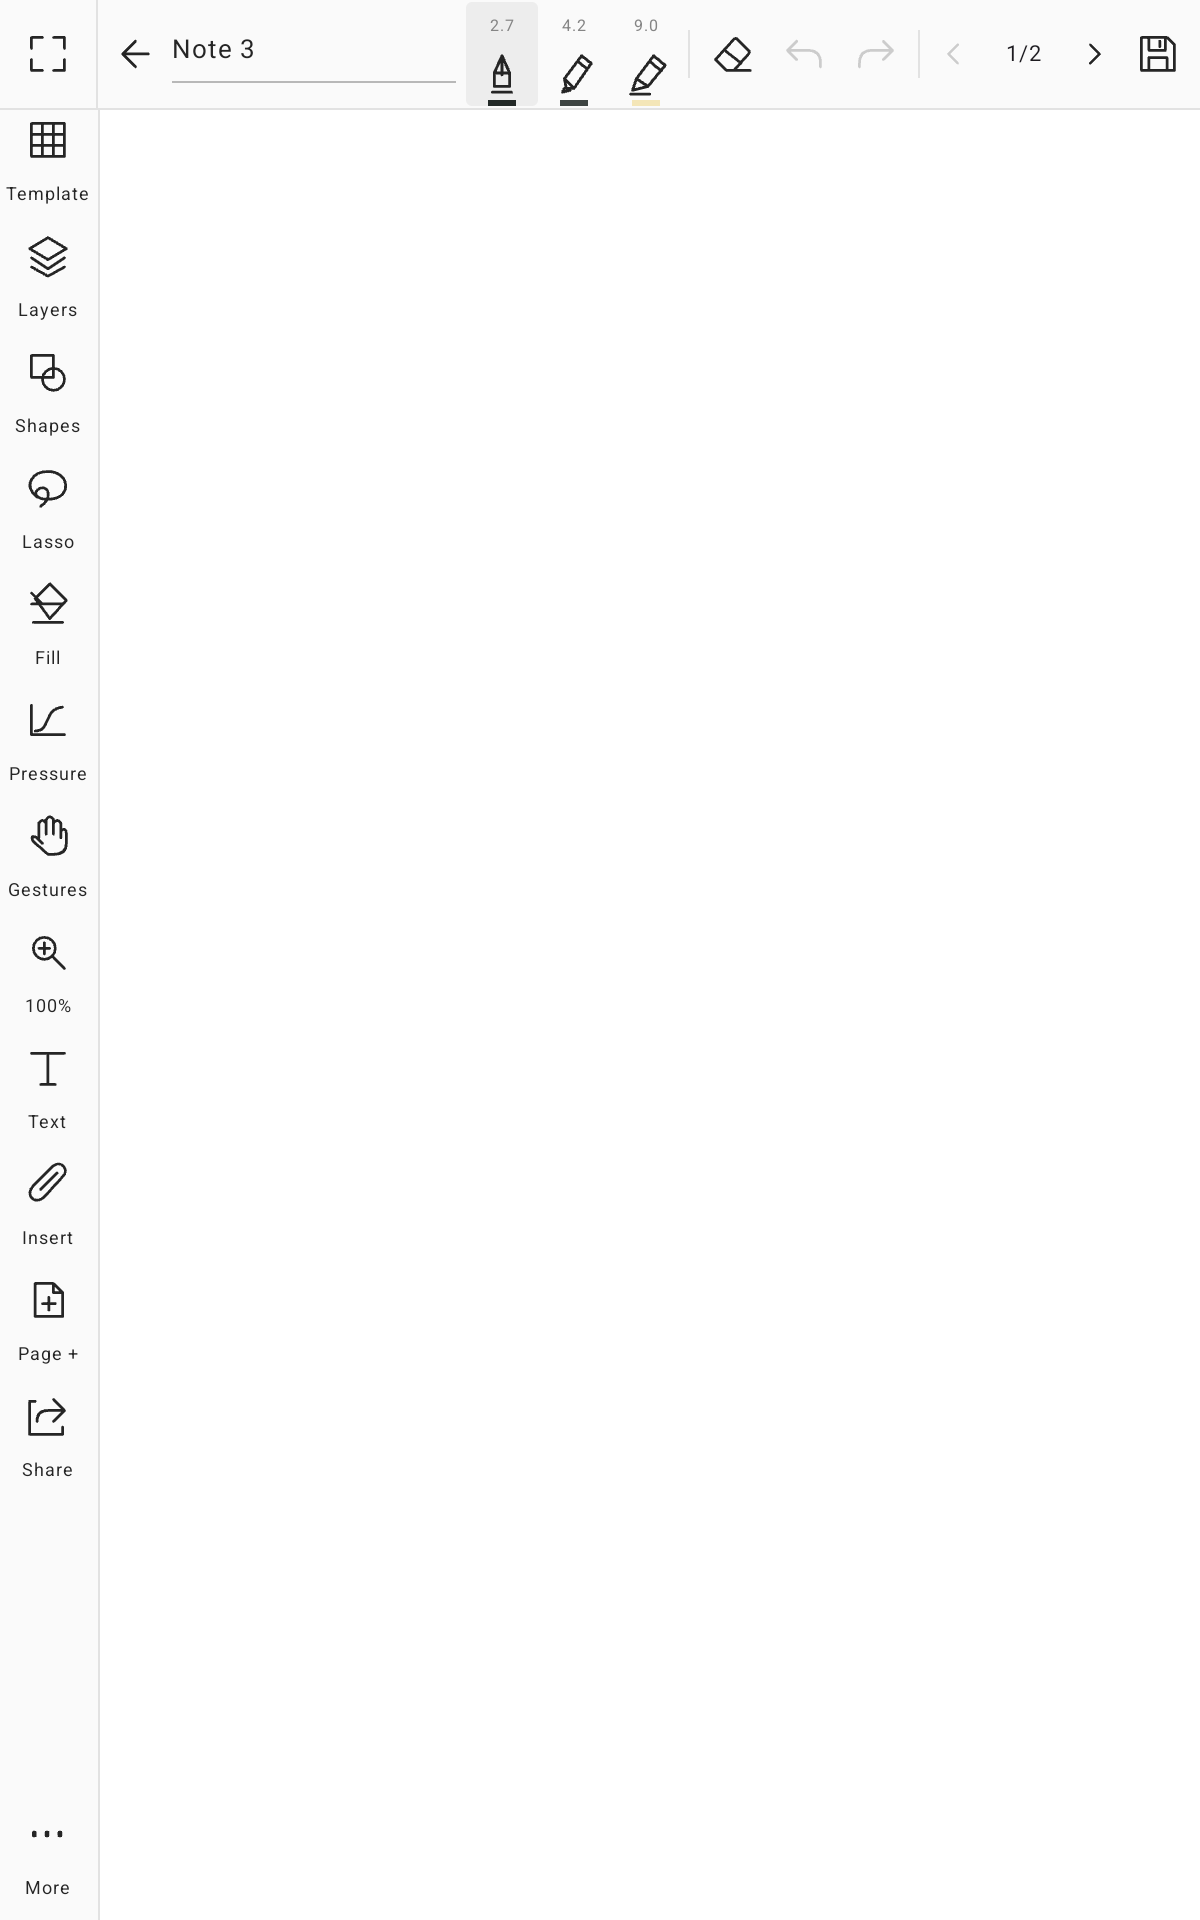
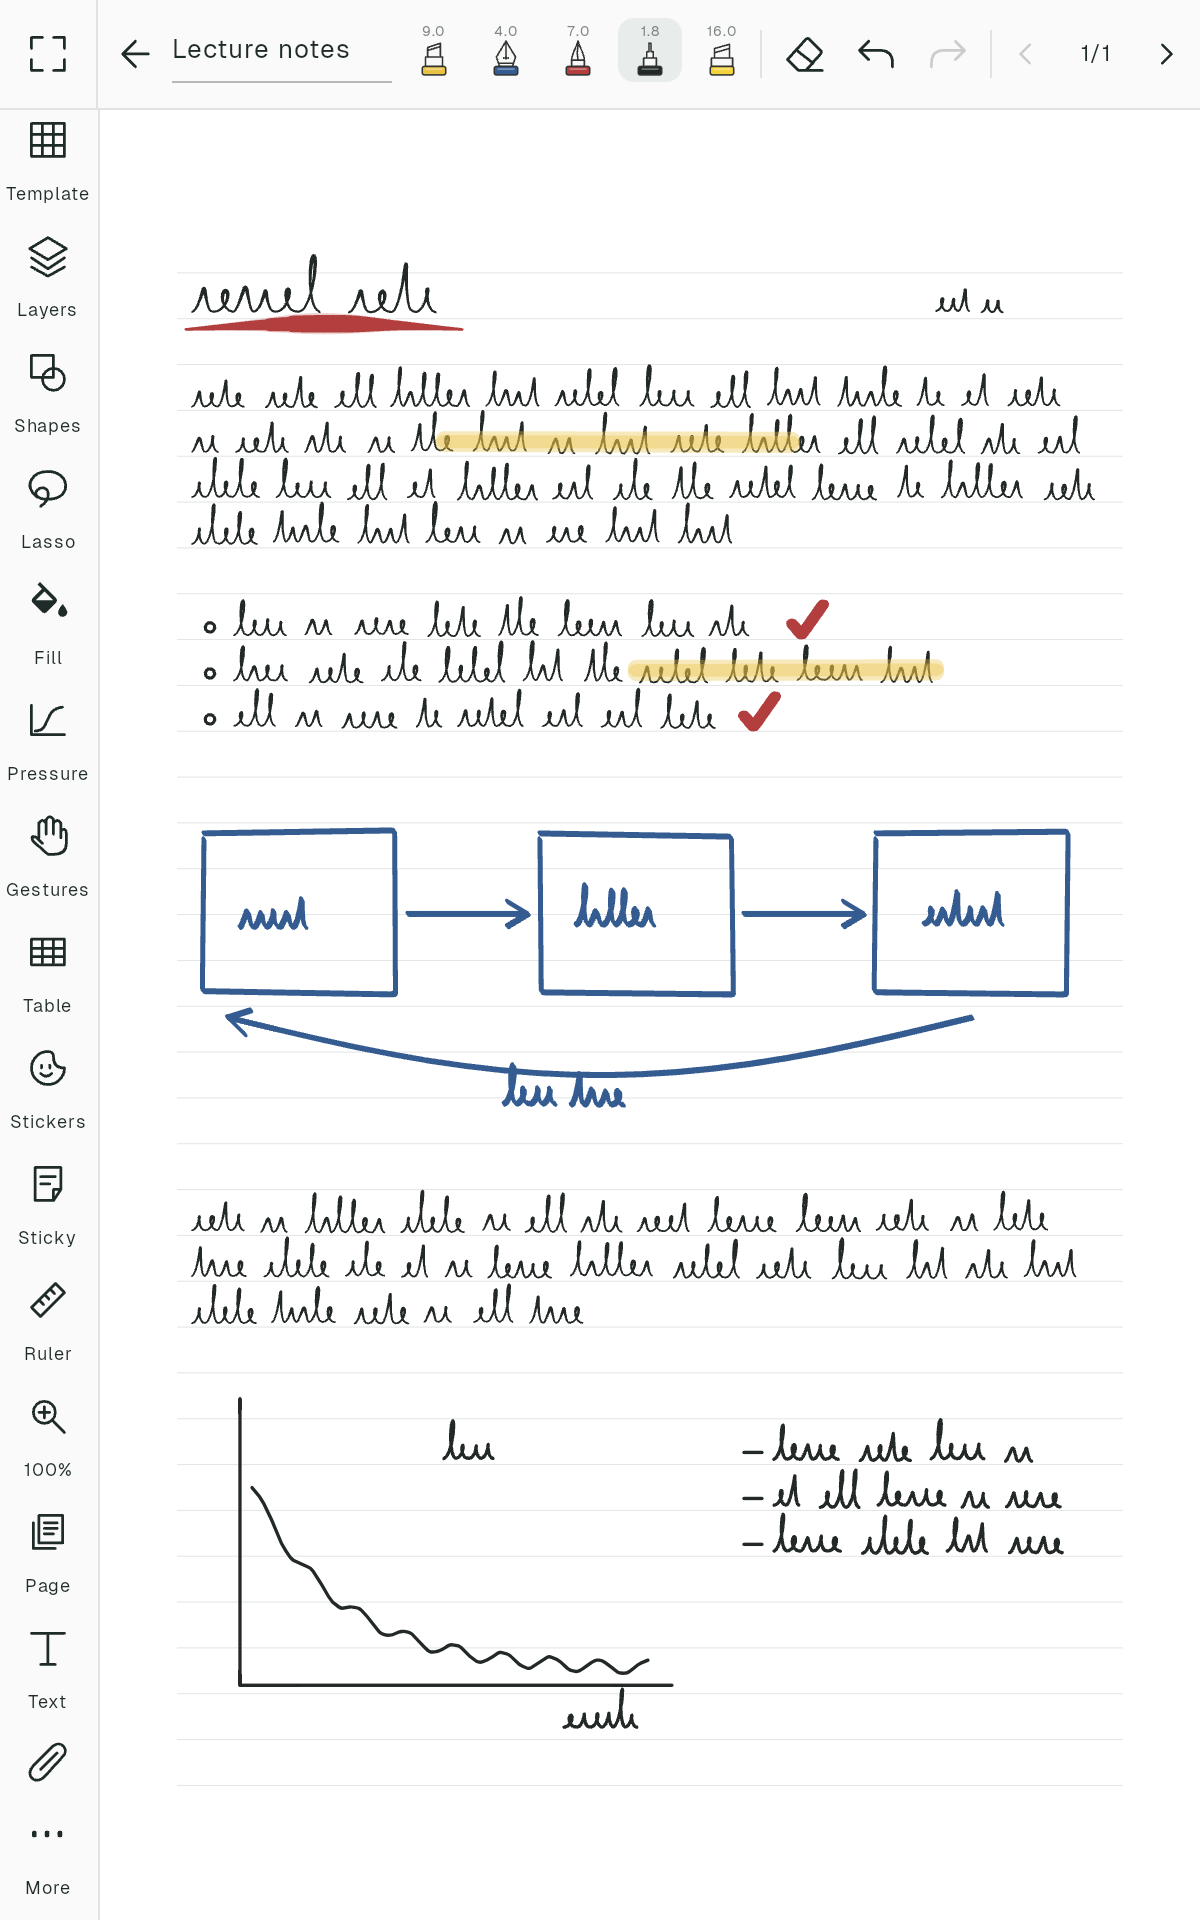
Real screenshots in the landing and a phone-friendly editor toolbar
- Landing: library, sidebar, canvas, brushes, pressure and reader captures
- Editor top bar: on screens narrower than 600 dp the title gives way and
  fewer brushes show, so undo, redo and page controls always fit

diff --git a/apps/mobile/androidApp/src/main/kotlin/com/allient/folio/NotebookEditor.kt b/apps/mobile/androidApp/src/main/kotlin/com/allient/folio/NotebookEditor.kt
@@ -1248,11 +1248,15 @@ internal fun NotebookEditor(
     Box(Modifier.fillMaxSize().background(Color.White)) {
         Column(Modifier.fillMaxSize()) {
             if (!focusMode) {
+                // Phones and narrow windows: the title gives way and fewer brushes show, so page controls always fit.
+                val screenWidthDp = LocalConfiguration.current.screenWidthDp
+                val compactBar = screenWidthDp < 600
+                val maxBrushes = if (compactBar) ((screenWidthDp - 290) / 36).coerceIn(1, 5) else 5
                 Row(Modifier.fillMaxWidth().height(54.dp).background(Color(0xFFFAFAFA)), verticalAlignment = Alignment.CenterVertically) {
                     InkToolButton(InkIcon.Expand, "Focus mode", { focusMode = true }, Modifier.width(48.dp), buttonSize = 44.dp)
                     Box(Modifier.width(1.dp).fillMaxHeight().background(ChromeLine))
                     InkToolButton(InkIcon.Back, backLabel, { save(); onBack() }, buttonSize = 32.dp)
-                    Box(Modifier.weight(1f).padding(horizontal = 5.dp).clickable { draft = notebook.title; sheet = "rename" }.semantics { contentDescription = "Rename notebook" }) {
+                    if (compactBar) Spacer(Modifier.weight(1f)) else Box(Modifier.weight(1f).padding(horizontal = 5.dp).clickable { draft = notebook.title; sheet = "rename" }.semantics { contentDescription = "Rename notebook" }) {
                         Text(notebook.title, fontSize = 13.sp, color = ChromeInk, maxLines = 1, overflow = TextOverflow.Ellipsis, modifier = Modifier.padding(bottom = 5.dp))
                         Box(Modifier.align(Alignment.BottomStart).fillMaxWidth().height(1.dp).background(Color(0xFFB8B8B8)))
                     }
@@ -1260,14 +1264,14 @@ internal fun NotebookEditor(
                         // At most five brushes are visible; extra presets scroll inside this strip only.
                         val brushSlotPx = with(androidx.compose.ui.platform.LocalDensity.current) { 36.dp.toPx() }
                         val brushListState = androidx.compose.foundation.lazy.rememberLazyListState()
-                        val brushScrollable = presets.size > 5
+                        val brushScrollable = presets.size > maxBrushes
                         LaunchedEffect(selectedBrush.presetId) {
                             val index = presets.indexOfFirst { it.presetId == selectedBrush.presetId }
                             val visible = brushListState.layoutInfo.visibleItemsInfo
                             if (index >= 0 && visible.isNotEmpty() && (index <= visible.first().index || index >= visible.last().index))
                                 brushListState.animateScrollToItem((index - 2).coerceAtLeast(0))
                         }
-                        LazyRow(Modifier.width((36 * presets.size.coerceIn(1, 5) - 4).dp).height(36.dp)
+                        LazyRow(Modifier.width((36 * presets.size.coerceIn(1, maxBrushes) - 4).dp).height(36.dp)
                             .then(if (brushScrollable) Modifier.graphicsLayer { compositingStrategy = androidx.compose.ui.graphics.CompositingStrategy.Offscreen }
                                 .drawWithContent {
                                     drawContent()
